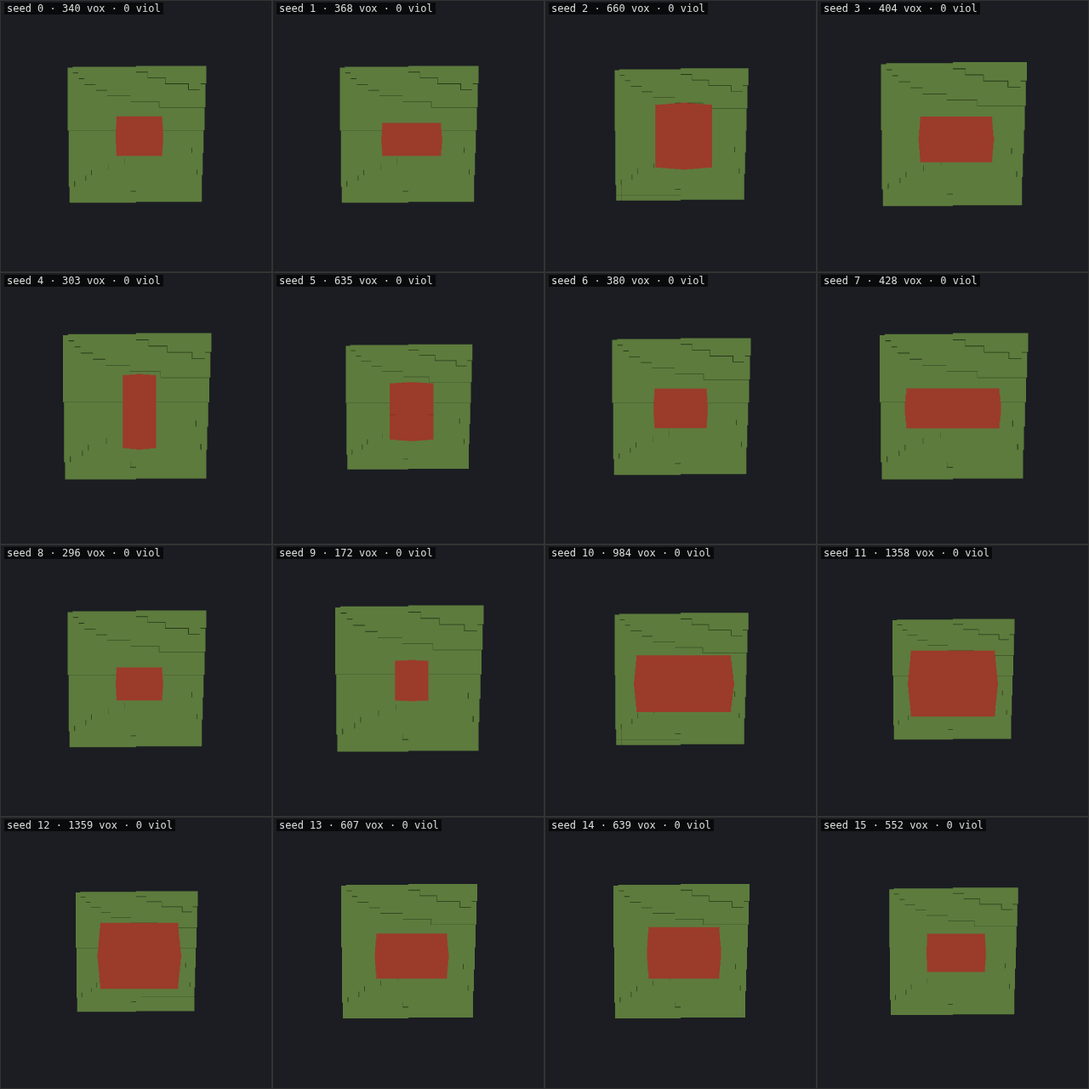
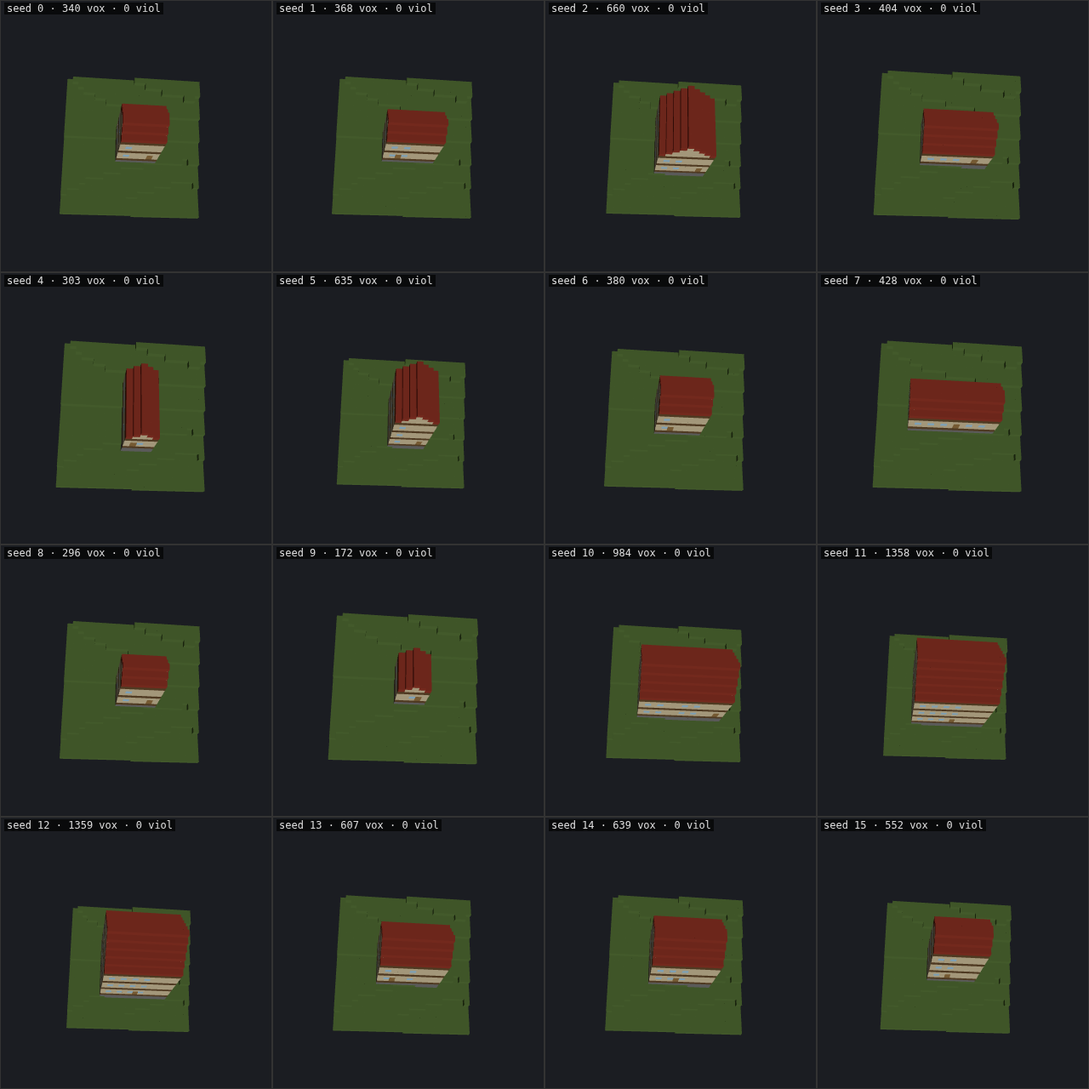
feat(viewer): Phase 3 gate follow-ups: tilted gallery top view, jettied wings and setbacks
- 2d70bc74 John feedback: docs/REVIEW.md

Run-commits: 2d70bc74cf0951a0d5e5a9266d93b0b7534cdb60..2d70bc74cf0951a0d5e5a9266d93b0b7534cdb60

diff --git a/viewer/src/presets.ts b/viewer/src/presets.ts
@@ -7,6 +7,9 @@ export type PresetName = (typeof PRESET_NAMES)[number];
 /** Fixed for every cell, so the same seed always frames the same. */
 export const FOV_DEG = 35;
 const DISTANCE_FACTOR = 1.15;
+/** The top preset's angle off vertical, so roof slopes and gable ends read instead of a flat rectangle. */
+export const TOP_PITCH_DEG = 22;
+const TOP_PITCH = (TOP_PITCH_DEG * Math.PI) / 180;
 
 /** Horizontal unit vector pointing out of the front of a lot (north is -z, east is +x, as in the IR). */
 export function frontVector(front: Facing): [number, number] {
@@ -22,8 +25,8 @@ export interface CameraPose { position: THREE.Vector3; target: THREE.Vector3; up
 
 /**
  * Camera pose for a preset, relative to the world bounds [min, max) of a building and the facing of its lot.
- * front-left: 3/4 view from the front-left corner, 30 degrees down; back-right: the opposite corner; top: straight
- * down with the front at the bottom of the picture; front: level elevation from the front.
+ * front-left: 3/4 view from the front-left corner, 30 degrees down; back-right: the opposite corner; top: 22 degrees off
+ * straight down (tipped towards the front, slightly to the left) with the front at the bottom of the picture; front: level elevation from the front.
  */
 export function presetPose(
   name: PresetName, bounds: { min: number[]; max: number[] }, front: Facing,
@@ -44,7 +47,11 @@ export function presetPose(
     case 'front-left': dir.copy(flat(1, 1)).multiplyScalar(Math.cos(tilt)).setY(Math.sin(tilt)); break;
     case 'back-right': dir.copy(flat(-1, -1)).multiplyScalar(Math.cos(tilt)).setY(Math.sin(tilt)); break;
     case 'front': dir.copy(flat(1, 0)); break;
-    case 'top': dir.set(0, 1, 0); up.set(-fx, 0, -fz); break; // front edge at the bottom of the picture
+    case 'top': { // front edge at the bottom of the picture, tipped off vertical towards the front and a little to the left
+      dir.copy(flat(1, 0.35)).multiplyScalar(Math.sin(TOP_PITCH)).setY(Math.cos(TOP_PITCH));
+      up.set(-fx, 0, -fz);
+      break;
+    }
   }
   return { position: target.clone().add(dir.multiplyScalar(dist)), target, up };
 }

diff --git a/viewer/src/gallery.ts b/viewer/src/gallery.ts
@@ -1,6 +1,6 @@
 import * as THREE from 'three';
 import { buildSceneObject } from './render';
-import { FOV_DEG, PRESET_NAMES, presetPose } from './presets';
+import { FOV_DEG, PRESET_NAMES, frontVector, presetPose } from './presets';
 import type { PresetName } from './presets';
 import { resolveSource } from './source';
 import { sceneBounds, sceneVoxels } from './voxels';
@@ -40,7 +40,8 @@ async function main(): Promise<void> {
   if (seeds.length === 0) throw new Error(`no seeds >= ${from}`);
 
   const scene = new THREE.Scene();
-  scene.add(new THREE.HemisphereLight(0xffffff, 0x444455, 1.2));
+  const hemi = new THREE.HemisphereLight(0xffffff, 0x444455, 1.2);
+  scene.add(hemi);
   const sun = new THREE.DirectionalLight(0xffffff, 2);
   sun.position.set(5, 10, 7);
   scene.add(sun, sun.target);
@@ -60,7 +61,15 @@ async function main(): Promise<void> {
     camera.lookAt(pose.target);
     camera.updateProjectionMatrix();
     // Headlight-ish: the sun follows the camera (a bit above it) so every preset and facing is lit alike.
-    sun.position.copy(pose.position).add(new THREE.Vector3(0, pose.position.distanceTo(pose.target) * 0.6, 0));
+    const dist = pose.position.distanceTo(pose.target);
+    sun.position.copy(pose.position).add(new THREE.Vector3(0, dist * 0.6, 0));
+    if (preset === 'top') {
+      // From above a headlight makes every upward face identical. Use a fixed low sun from the front-right
+      // (relative to the lot's front) so roof slopes, ridges and gable ends take different shades.
+      const [fx, fz] = frontVector(data.lots[0]?.front ?? 'south');
+      sun.position.copy(pose.target).add(new THREE.Vector3(0.8 * fx + 0.6 * fz, 0.55, 0.8 * fz - 0.6 * fx).multiplyScalar(dist));
+      hemi.intensity = 0.5;
+    } else hemi.intensity = 1.2;
     sun.target.position.copy(pose.target);
     sun.target.updateMatrixWorld();
     const col = i % COLS, row = Math.floor(i / COLS);

diff --git a/viewer/src/presets.test.ts b/viewer/src/presets.test.ts
@@ -1,5 +1,5 @@
 import { describe, expect, it } from 'vitest';
-import { PRESET_NAMES, presetPose } from './presets';
+import { PRESET_NAMES, TOP_PITCH_DEG, presetPose } from './presets';
 
 const b = { min: [10, 60, 20], max: [30, 70, 40] };
 
@@ -22,9 +22,13 @@ describe('camera presets', () => {
     const bl = presetPose('front-left', b, 'north'), br = presetPose('back-right', b, 'north');
     expect(bl.position.x + br.position.x).toBeCloseTo(2 * bl.target.x, 6);
   });
-  it('top looks straight down', () => {
-    const p = presetPose('top', b, 'west');
-    expect(p.position.x).toBeCloseTo(p.target.x); expect(p.position.z).toBeCloseTo(p.target.z);
-    expect(p.position.y).toBeGreaterThan(p.target.y);
+  it('top looks down at a slight angle off vertical, tipped towards the front and the viewer-left', () => {
+    const p = presetPose('top', b, 'south');
+    const d = p.position.clone().sub(p.target);
+    expect(d.y).toBeGreaterThan(0);
+    expect(Math.acos(d.y / d.length()) * 180 / Math.PI).toBeCloseTo(TOP_PITCH_DEG, 6);
+    expect(p.position.z).toBeGreaterThan(p.target.z); // front (south) side
+    expect(p.position.x).toBeLessThan(p.target.x); // viewer-left
+    expect(p.up.x + 0).toBeCloseTo(0); expect(p.up.z).toBeCloseTo(-1); // front edge stays at the bottom of the picture
   });
 });

diff --git a/docs/ROADMAP.md b/docs/ROADMAP.md
@@ -50,7 +50,7 @@ item. Per-item work logs are in [log/](log/); run ledgers in [runs/](runs/).
 | 0. Scaffolding | done 2026-10-08; gate passed 2026-10-14 (John) | builds green; viewer renders the box |
 | 1. Prior art research | done; gate passed 2026-10-16 (John signed off in synthesis.md; wants effectively unbounded cities) | John picks building-generation direction and the integration approach to spike |
 | 2. Worldgen spikes | done; gate passed 2026-10-16 (John accepted ADR 0003; S6 figures being re-measured) | worldgen ADR (approach, size limits, determinism rules) |
-| 3. Planner core and three.js viewer | done 2026-10-16; gate awaiting John (pack: docs/review/phase3/README.md, REVIEW 3.12) | John reviews seed gallery and invariant report |
+| 3. Planner core and three.js viewer | done 2026-10-16; gate passed 2026-10-18 (John, REVIEW 3.12: "These all look good"; follow-ups: top view tilted, Phase 4 4.2 wings/jetties) | John reviews seed gallery and invariant report |
 | 4. Building generator depth | not started | per building type, "would I believe a person built this?" |
 | 5. Settlements and cities | not started | cities in ≥5 biome mixes, one straddling a border |
 | 6. Minecraft integration and release | not started | fresh world on three seeds plays well for an hour; first release |
@@ -259,83 +259,32 @@ result decides whether flattening is needed.
 limits and the determinism rules. S3's order-independence test becomes a
 permanent regression test (re-implemented properly, in Phase 3 or 6).
 
-## Phase 3: Planner core and three.js viewer
+## Phase 3: Planner core and three.js viewer (done 2026-10-16; gate passed 2026-10-18)
 
-Updated: 2026-10-16
+Updated: 2026-10-18
 
-Build the review loop and a deliberately plain first generator: one building on
-one lot, viewable from any seed. The generator stays plain, but the IR is built
-for what follows: tall setback towers, buildings over several lots, scenes with
-many buildings, and shells cached by spec (ADR 0001, ADR 0003 D6).
+Done in run `docs/runs/2026-10-16-phase3.md`; full text in
+[archive/roadmap-phase-3.md](archive/roadmap-phase-3.md), plan in
+[plans/phase3.md](plans/phase3.md). The review loop works end to end: IR
+`fb-scene/1` (schema in `docs/IR.md`), synthetic and recorded probes,
+generator v0 (one plain gabled house per lot), the CLI (`gen`, `batch`,
+`check`, `bench`, `diversity`), the three.js viewer with controls, invariant
+overlay and a Playwright seed gallery (`npm run gallery`), property tests
+(1,280,000 cases, 0 failures), determinism tests with golden digests, and a
+diversity floor. Gate pack in `docs/review/phase3/`.
 
-Plan: [plans/phase3.md](plans/phase3.md) (steps S1–S9 and V1–V4, with the IR
-v1 spec, the v0 rules and the invariant definitions). The plan commit already
-holds the IR types, probe interfaces, `Hash64`, the sample scene (Java and
-`viewer/fixtures/sample-house.json`) and a terrain crop of S4's dump
-(`fixtures/terrain/s4-12345-crop32.json`), so five steps start at once.
+Open known issues that matter later (details in the Polish backlog, 3.x lines):
+no front steps, so the door is unreachable from lower ground on slopes (3.3);
+no world-height cap near y 319 (3.3); roof slopes render as one colour in the
+viewer, only the stripes show (3.8); a failing property case can't be replayed
+via the CLI (3.4).
 
-Parallel: wave 1 is S1 (3.1), S2 (3.2), S3 (3.3), S4 (3.9a) and V1 (3.5),
-side by side. Wave 2 as they land: S5 (3.4), S8 (3.9b), S6 (3.10), S7
-(3.11), V2 (3.6), V3 (3.7), V4 (3.8). Then the gate pack, S9 (3.12).
-Critical path: S3 → S5 → V4 → S9.
-
-**Planner core (Java, no Minecraft)**
-
-- [x] **3.1 Building IR** (S1): format `fb-scene/1`: a scene of lots, placed
-  buildings, terrain and violations; a building is a site-independent shell
-  (spec, spec hash, storey grid, volumes, rooms, openings, roofs,
-  role-tagged boxes) plus its placement and site boxes. Deterministic JSON
-  writer, validator, schema in `docs/IR.md`, the sample fixture written by
-  the writer.
-- [x] **3.2 Probes** (S2): terrain and biome interfaces; synthetic shapes
-  (flat, plane, hill, terraces, noise); recorded implementation reading S4's
-  `fb-region-dump/1` (the committed crop), with integer interpolation;
-  probe spec strings shared by the CLI and tests.
-- [x] **3.3 Generator v0** (S3): rectangular footprint, 1–3 floors, rooms,
-  stairs, doors and windows, gable roof, foundations to the terrain; written
-  as spec policy → shell generator → instance pass, on `IntSplit` and
-  `Choice` (ADR 0001 B2).
-- [x] **3.4 CLI** (S5): `gen --seed --lot --style --terrain` writes scene
-  JSON; `batch` (for the viewer), `check` (invariant report), `bench`.
-  Replaces the Phase 0 smoke IR. Also `diversity` (S7). `check --seeds 0..999` (128,000 cases) takes 1.4 s; see `docs/log/2026-10-16-p3-s5-cli.md`.
-
-**Viewer (TypeScript, three.js)**
-
-- [x] **3.5 Instanced voxel mesh** (V1) with orbit controls; colour by role or
-  by mapped palette; layer groups; placement and rotation as in the core.
-- [x] **3.6 Controls** (V2): seed scrubber, style switch, layer toggles
-  (shell, interior, roof, foundation, terrain), storey slider; state in the URL.
-- [x] **3.7 Invariant overlay** (V3): failures from the core's checks drawn in
-  red, visible through walls, with a list.
-- [x] **3.8 Seed gallery** (V4): a 4×4 grid of seeds from fixed camera presets;
-  Playwright captures it as PNGs, so agents review the same pictures John does.
-  `cd viewer && nix develop -c npm run gallery` (CLI batch to `viewer/gallery-data/gen/`, build, Playwright; PNGs in `viewer/out/gallery/`). *Known issues:* top preset is flat-shaded (roof ridges not readable from above); styles differ only by palette at generator v0.
-
-**Tests**
-
-- [x] **3.9 Property tests** over thousands of seeds: every room reachable from a
-  door, roof closed, no floating blocks, stays in its lot. Split: checks on a
-  voxel grid with one mutant per invariant (S4, 3.9a); generator property
-  tests over seeds, lots, fronts and terrains (S8, 3.9b).
-  - [x] **3.9a** (S4): `core/voxel/VoxelGrid`, `core/check/{Invariants,Invariant,InvariantReport}`; mutant per invariant in `InvariantsTest`; fixture `viewer/fixtures/sample-house-violations.json`. 3.9b still open.
-  - [x] **3.9b** (S8): `gen/v0/V0PropertyTest` (2000 drawn seeds + 14400-scene cross product, 9 terrains incl. recorded crop; mutation checks); 0 violations. `-Dfb.propertySeeds=N` raises the count.
-- [x] **3.10 Determinism** (S6): same seed gives byte-identical JSON, also
-  across threads, request order and cache states (cold, warm, evicted,
-  prefetched); golden digests catch cross-JVM drift; a lint bans
-  nondeterministic APIs in the core.
-- [x] **3.11 Diversity score** (S7) across a seed batch, so sameness is measured
-  and not just eyeballed; a regression floor in a test.
-  CLI: `fractal-cli diversity --seeds A..B` (added with S5); v0 floors, baseline and report are in.
-- [x] **3.12 Gate pack** (S9): invariant report over 10,000 seeds, galleries and
-  the diversity report in `docs/review/phase3/`, v0 timing per building, a
-  REVIEW.md entry.
-  Pack in `docs/review/phase3/` (README, invariants.md: 1,280,000 cases, 0 failures; diversity.md; 16 gallery PNGs); house generation about 0.011 ms, check 0.13 ms (NOTES); REVIEW.md item 3.12. `scripts/test-all.sh` runs `npm run screenshot` for layer 3, not the gallery (on purpose).
-
-**Gate:** John reviews the seed gallery and the invariant report.
+**Gate:** John reviews the seed gallery and the invariant report. *Passed
+2026-10-18* (REVIEW.md 3.12; no ADR settled by this gate).
 
 ## Phase 4: Building generator depth
 
-Updated: 2026-10-16
+Updated: 2026-10-18
 
 Grow v0 into buildings that read as built by a person, using the technique
 chosen at the Phase 1 gate ([ADR 0001](adr/0001-building-direction.md): volume
@@ -353,6 +302,20 @@ fan out one per item.
 - [ ] **4.2 Massing**: L, T, U and courtyard footprints; multi-volume buildings;
   towers and wings; setback stacks (podium, shaft, crown, each volume inside
   the one below); one storey grid per building.
+  - Wings from multiple volumes: L, T and U plans built as a main block plus
+    wings of different widths and heights, not one extruded outline. John at
+    the Phase 3 gate (REVIEW 3.12): v0 "read[s] as plain houses"; he likes
+    the variety in size and shape and wants "wings and stories that aren't
+    all the same size".
+  - Storeys with different footprints in both directions: setbacks (upper
+    storey smaller) and jetties (upper storey wider than the one below,
+    overhanging by 1–2 blocks on one or more sides, "like how some old
+    houses are wider with an overhang on top"; John, same comment). Model
+    each differing storey as its own volume starting above storey 0
+    (`parent` = the volume below): the current invariants then accept the
+    overhang without a rule change (NOTES, Planner core, 2026-10-18). A
+    jetty past the lot edge (over a street) still fails `in-lot`; Phase 5
+    decides whether streets allow that.
 - [ ] **4.3 Roofs**: gable, hip and combinations; dormers; overhangs; pitch per
   style; flat roofs, parapets and crowns for tall buildings.
 - [ ] **4.4 Facades**: bays and rhythm, trim, depth (insets, beams, sills), a

diff --git a/docs/archive/roadmap-phase-3.md b/docs/archive/roadmap-phase-3.md
@@ -1,0 +1,76 @@
+# Roadmap Phase 3: Planner core and three.js viewer (archived 2026-10-18)
+
+Full text as it stood when the phase finished (gate passed by John 2026-10-18). Summary in [../ROADMAP.md](../ROADMAP.md).
+
+Updated: 2026-10-16
+
+Build the review loop and a deliberately plain first generator: one building on
+one lot, viewable from any seed. The generator stays plain, but the IR is built
+for what follows: tall setback towers, buildings over several lots, scenes with
+many buildings, and shells cached by spec (ADR 0001, ADR 0003 D6).
+
+Plan: [../plans/phase3.md](../plans/phase3.md) (steps S1–S9 and V1–V4, with the IR
+v1 spec, the v0 rules and the invariant definitions). The plan commit already
+holds the IR types, probe interfaces, `Hash64`, the sample scene (Java and
+`viewer/fixtures/sample-house.json`) and a terrain crop of S4's dump
+(`fixtures/terrain/s4-12345-crop32.json`), so five steps start at once.
+
+Parallel: wave 1 is S1 (3.1), S2 (3.2), S3 (3.3), S4 (3.9a) and V1 (3.5),
+side by side. Wave 2 as they land: S5 (3.4), S8 (3.9b), S6 (3.10), S7
+(3.11), V2 (3.6), V3 (3.7), V4 (3.8). Then the gate pack, S9 (3.12).
+Critical path: S3 → S5 → V4 → S9.
+
+**Planner core (Java, no Minecraft)**
+
+- [x] **3.1 Building IR** (S1): format `fb-scene/1`: a scene of lots, placed
+  buildings, terrain and violations; a building is a site-independent shell
+  (spec, spec hash, storey grid, volumes, rooms, openings, roofs,
+  role-tagged boxes) plus its placement and site boxes. Deterministic JSON
+  writer, validator, schema in `docs/IR.md`, the sample fixture written by
+  the writer.
+- [x] **3.2 Probes** (S2): terrain and biome interfaces; synthetic shapes
+  (flat, plane, hill, terraces, noise); recorded implementation reading S4's
+  `fb-region-dump/1` (the committed crop), with integer interpolation;
+  probe spec strings shared by the CLI and tests.
+- [x] **3.3 Generator v0** (S3): rectangular footprint, 1–3 floors, rooms,
+  stairs, doors and windows, gable roof, foundations to the terrain; written
+  as spec policy → shell generator → instance pass, on `IntSplit` and
+  `Choice` (ADR 0001 B2).
+- [x] **3.4 CLI** (S5): `gen --seed --lot --style --terrain` writes scene
+  JSON; `batch` (for the viewer), `check` (invariant report), `bench`.
+  Replaces the Phase 0 smoke IR. Also `diversity` (S7). `check --seeds 0..999` (128,000 cases) takes 1.4 s; see `docs/log/2026-10-16-p3-s5-cli.md`.
+
+**Viewer (TypeScript, three.js)**
+
+- [x] **3.5 Instanced voxel mesh** (V1) with orbit controls; colour by role or
+  by mapped palette; layer groups; placement and rotation as in the core.
+- [x] **3.6 Controls** (V2): seed scrubber, style switch, layer toggles
+  (shell, interior, roof, foundation, terrain), storey slider; state in the URL.
+- [x] **3.7 Invariant overlay** (V3): failures from the core's checks drawn in
+  red, visible through walls, with a list.
+- [x] **3.8 Seed gallery** (V4): a 4×4 grid of seeds from fixed camera presets;
+  Playwright captures it as PNGs, so agents review the same pictures John does.
+  `cd viewer && nix develop -c npm run gallery` (CLI batch to `viewer/gallery-data/gen/`, build, Playwright; PNGs in `viewer/out/gallery/`). *Known issues:* top preset is flat-shaded (roof ridges not readable from above); styles differ only by palette at generator v0.
+  *Gate follow-up* (John 3.12 answers 2 and 4): `top` preset now 22 degrees off vertical (tipped to the front, a little to the left) and lit by a fixed low sun from the front-right instead of the camera headlight, so the front wall and gable ends read; other presets unchanged. Roof slopes are still one colour (stair voxels share an up-face), only the stripes show. Gallery PNGs in `docs/review/phase3/gallery/` regenerated.
+
+**Tests**
+
+- [x] **3.9 Property tests** over thousands of seeds: every room reachable from a
+  door, roof closed, no floating blocks, stays in its lot. Split: checks on a
+  voxel grid with one mutant per invariant (S4, 3.9a); generator property
+  tests over seeds, lots, fronts and terrains (S8, 3.9b).
+  - [x] **3.9a** (S4): `core/voxel/VoxelGrid`, `core/check/{Invariants,Invariant,InvariantReport}`; mutant per invariant in `InvariantsTest`; fixture `viewer/fixtures/sample-house-violations.json`. 3.9b still open.
+  - [x] **3.9b** (S8): `gen/v0/V0PropertyTest` (2000 drawn seeds + 14400-scene cross product, 9 terrains incl. recorded crop; mutation checks); 0 violations. `-Dfb.propertySeeds=N` raises the count.
+- [x] **3.10 Determinism** (S6): same seed gives byte-identical JSON, also
+  across threads, request order and cache states (cold, warm, evicted,
+  prefetched); golden digests catch cross-JVM drift; a lint bans
+  nondeterministic APIs in the core.
+- [x] **3.11 Diversity score** (S7) across a seed batch, so sameness is measured
+  and not just eyeballed; a regression floor in a test.
+  CLI: `fractal-cli diversity --seeds A..B` (added with S5); v0 floors, baseline and report are in.
+- [x] **3.12 Gate pack** (S9): invariant report over 10,000 seeds, galleries and
+  the diversity report in `docs/review/phase3/`, v0 timing per building, a
+  REVIEW.md entry.
+  Pack in `docs/review/phase3/` (README, invariants.md: 1,280,000 cases, 0 failures; diversity.md; 16 gallery PNGs); house generation about 0.011 ms, check 0.13 ms (NOTES); REVIEW.md item 3.12. `scripts/test-all.sh` runs `npm run screenshot` for layer 3, not the gallery (on purpose).
+
+**Gate:** John reviews the seed gallery and the invariant report.

diff --git a/docs/REVIEW.md b/docs/REVIEW.md
@@ -28,7 +28,7 @@ work becomes a ROADMAP item or a Polish backlog line. Settled items move to
   Look for: the licence you want for the mod (affects what we may borrow from other mods)
   Result: MIT with John as author (John, 2026-10-08)
 
-- [ ] **3.12 Phase 3 gate**: generator v0 seed gallery, invariant report and diversity report
+- [x] **3.12 Phase 3 gate**: generator v0 seed gallery, invariant report and diversity report
   Where: [the pack's README](review/phase3/README.md); 16 PNGs in `docs/review/phase3/gallery/` (`<style>[-flat]-<preset>.png`: plain and medieval, noise and flat terrain, presets front-left, back-right, top, front; seeds 0-15 on a 20x20 lot), [invariants.md](review/phase3/invariants.md) (1,280,000 cases, 0 failures), [diversity.md](review/phase3/diversity.md). Start with `plain-front-left.png` and `medieval-flat-back-right.png`.
   Look for:
   1. Does v0 read as plain houses (a box, 1 to 3 storeys, a gable roof, a door, windows)? It is meant to be plain; variety comes in Phase 4. Plain and medieval differ only in colour at v0.
@@ -37,11 +37,18 @@ work becomes a ROADMAP item or a Polish backlog line. Settled items move to
   4. Is the flat-shaded `top` view useful, or should it go (or get shading so roof ridges show)?
   5. The noise terrain is the same patch in every cell (one terrain spec, building at the same lot position). Fine for review, or do you want each seed on different ground?
   Agent notes: 3-storey houses show four brown bands (a floor slab per storey plus the top slab under the roof), so they can look like 4 storeys; the IR has at most 3 (spec range [1, 3], checked in the gallery IR and the code). Small houses look alike from outside (seeds 0 and 8: 7x6 vs 7x5, both 2 storeys; 64 of 256 seeds repeat another seed's shell voxels exactly, see diversity.md). The thin line in the grass of `plain-flat-top.png` seed 5 is a viewer rendering artifact.
-  Result:
+  Result: These all look good. Couple notes below. -- @John
+   1. These read as plain houses. I like the variety in size and shape. I’d like to see things like wings and stories that aren’t all the same size - like how some old houses are wider with an overhang on top. But it sounds like that kind of thing comes in phase 4.
+   2. Camera framing is good. The top view might be a little too dead on, so they all just look like a plain rectangle. A slight angle from the top view might help.
+   3. Looks good so far.
+   4. Shading. Also sound like this relates to 2.
+   5. Using the same patch is find for now.
 
-- [ ] **3.6 storey slider**: in the viewer, lowering "storeys up to N" below the top storey hides the roof together with the upper storeys (roofs are storey −1, shown only at the top setting, per the Phase 3 plan). Does that feel right, or should the roof stay or hide on its own toggle?
 
 ## Done
+
+- [x] **3.6 storey slider**: in the viewer, lowering "storeys up to N" below the top storey hides the roof together with the upper storeys (roofs are storey −1, shown only at the top setting, per the Phase 3 plan). Does that feel right, or should the roof stay or hide on its own toggle?
+  - This is fine. -- @John 
 
 - [x] **2.4 S4**: region maps in `docs/research/spikes/s4/*.png` — do city density and placement at 1024-block cells, and the size of joined cities, look like where a person would put towns?
   * Yes this looks good. People like to put cities near water features, but these cities seem to often grow large enough that they do get close to water. Villages kinda go wherever. But this looks good. -- @John

diff --git a/docs/NOTES.md b/docs/NOTES.md
@@ -35,6 +35,7 @@ being true.
 - 0.1a (2026-10-08): `:planner-core:checkNoMinecraft` fails the build if any source mentions net.minecraft/net.fabricmc/com.mojang or any config declares/resolves such a dependency; it runs before `compileJava` and in `check`.
 - P3 plan (2026-10-16): IR types, `Placement` (rotation maths), `Hash64`/`Draws` and `SampleScenes.house()` live in `core/ir` and `core/rand`; `SampleScenes.house()` and `viewer/fixtures/sample-house.json` are the same scene (196 voxels: floor 70, wall 69, roof 35, foundation 14, door 4, window 4). Spec and rules: docs/plans/phase3.md until docs/IR.md exists.
 - P3 plan (2026-10-16): `fixtures/terrain/s4-12345-crop32.json` is a 32x32 crop (step 64, x0 -1408, z0 -4160) of S4's `fb-region-dump/1` for seed 12345 with `layers` emptied; made with jq from the spike-s4 worktree's `viewer/public/region/seed-12345.json` (grid i 170-201, j 127-158). Known values: (576, -4160) river, surface 63, water 20.
+- Jetties (upper storey wider than the one below) under IR `fb-scene/1` and the 3.9 invariants (2026-10-18, read from `Invariants.java` and `IrValidator` rules, not run): representable, since `ir-valid` only requires volumes inside `bounds` and a resolvable `parent`, never a child inside its parent's footprint. `no-gap-below` only checks columns of volumes whose min y ≤ storey 0's y, so an upper volume starting above storey 0 is skipped and its overhang is not flagged; one tall volume spanning the overhang columns from y 0 would be. `no-floating` is per 6-connected component, so an overhang joined to the walls below through its slab passes. `roof-covers`/`roof-closed` are per roofed volume and scan up to any roof voxel, so an unroofed lower volume under the jetty is fine. `in-lot` still flags overhang past the lot edge. Nothing checks how far an overhang cantilevers: a generator rule (1–2 blocks), not an invariant.
 
 ## Viewer and Playwright
 - Playwright pin (0.4): browsers come from nixpkgs `playwright-driver.browsers` (`PLAYWRIGHT_BROWSERS_PATH` in the flake); npm `@playwright/test` is pinned **exactly** (`--save-exact`) to `pkgs.playwright-driver.version` of the *locked* nixpkgs, currently 1.63.0 (check with `nix eval --raw --impure --expr "(import (builtins.getFlake (toString ./.)).inputs.nixpkgs {}).playwright-driver.version"`; `nix eval nixpkgs#...` uses the registry and can differ). Bump both together.

diff --git a/docs/log/2026-10-18-p3-top-view.md b/docs/log/2026-10-18-p3-top-view.md
@@ -1,0 +1,10 @@
+# 3.8 gate follow-up: tilted top view
+
+John (REVIEW 3.12, answers 2 and 4): top view too dead on, flat shaded.
+
+- `viewer/src/presets.ts`: `top` pitch is `TOP_PITCH_DEG = 22` off vertical, towards the front and 0.35 of the way to the viewer-left; `up` still puts the front edge at the picture bottom; same distance, so whole building stays in frame (checked on all 16 cells x 4 galleries' top views).
+- `viewer/src/gallery.ts`: for `top` only, the sun is fixed at 0.55 elevation from the front-right of the lot's front (not the camera) and the hemisphere light drops to 0.5; other presets keep the headlight.
+- `presets.test.ts`: top test now asserts pitch, front/left tilt and up vector.
+- Gallery regenerated (`npm run gallery`, 16 PNGs) and copied to `docs/review/phase3/gallery/`.
+
+Before: a red (or grey) flat rectangle on green. After: front wall with windows/door visible below the roof, roof ridge stripes and stepped gable ends visible on long/tall houses (seeds 2, 4, 5, 9). Limitation: roof slope faces are stair cubes with the same up-face, so slopes are not tinted differently; shading helps mainly on side faces. Front-left preset looked unchanged.

diff --git a/CONFIG.md b/CONFIG.md
@@ -14,3 +14,9 @@ Anything you add to the block below is yours, edit freely.
 
 ## Managed by the Configuration Manager
 The block below is maintained by the ${widgets.commandButton("Configuration Manager", "Configuration: Open")}. Prefer editing it through the UI, although simple hand edits should survive.
+
+```space-lua
+-- managed-by: configuration-manager
+config.set("index.paragraph.all", true)
+config.set("journal.enabled", false)
+```

diff --git a/docs/plans/phase3.md b/docs/plans/phase3.md
@@ -1,5 +1,7 @@
 # Plan: Phase 3, planner core and three.js viewer
 
+Status: done (Phase 3 gate passed 2026-10-18; ROADMAP text archived in [../archive/roadmap-phase-3.md](../archive/roadmap-phase-3.md)).
+
 Author: lead-coder, 2026-10-16. Items: ROADMAP "Phase 3" 3.1–3.12.
 Decisions this plan relies on: [ADR 0001](../adr/0001-building-direction.md)
 (massing, then a typed split grammar; large buildings first-class),

diff --git a/Library/styles.md b/Library/styles.md
@@ -1,3 +1,6 @@
+---
+tags: meta/style
+---
 
 Kind of a hack - there should be a way to not use important but it’s straight forward. The table defaults in SilverBullet suck.
 ```space-style
